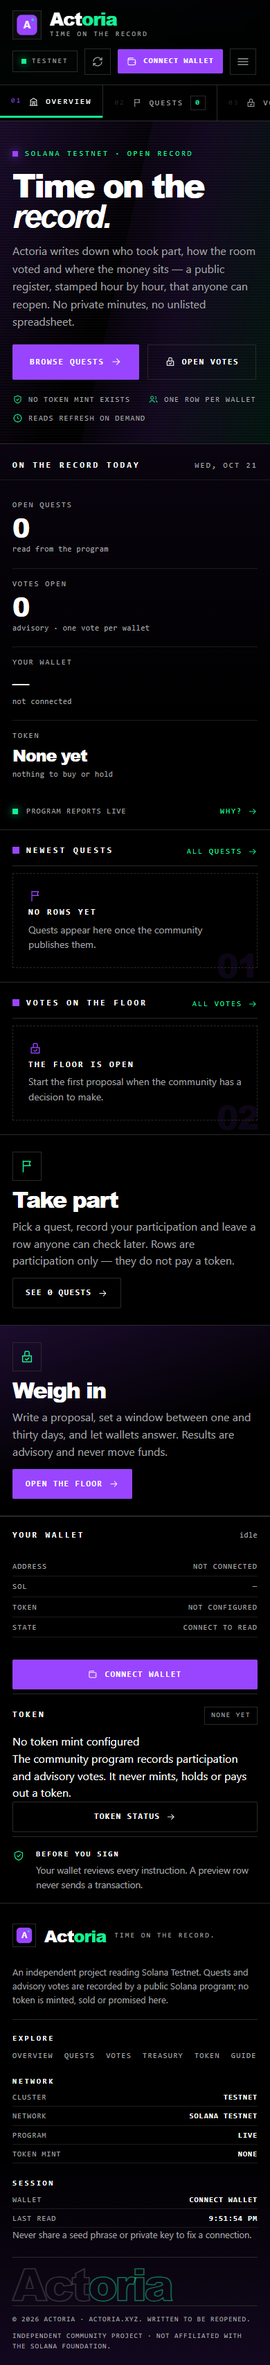
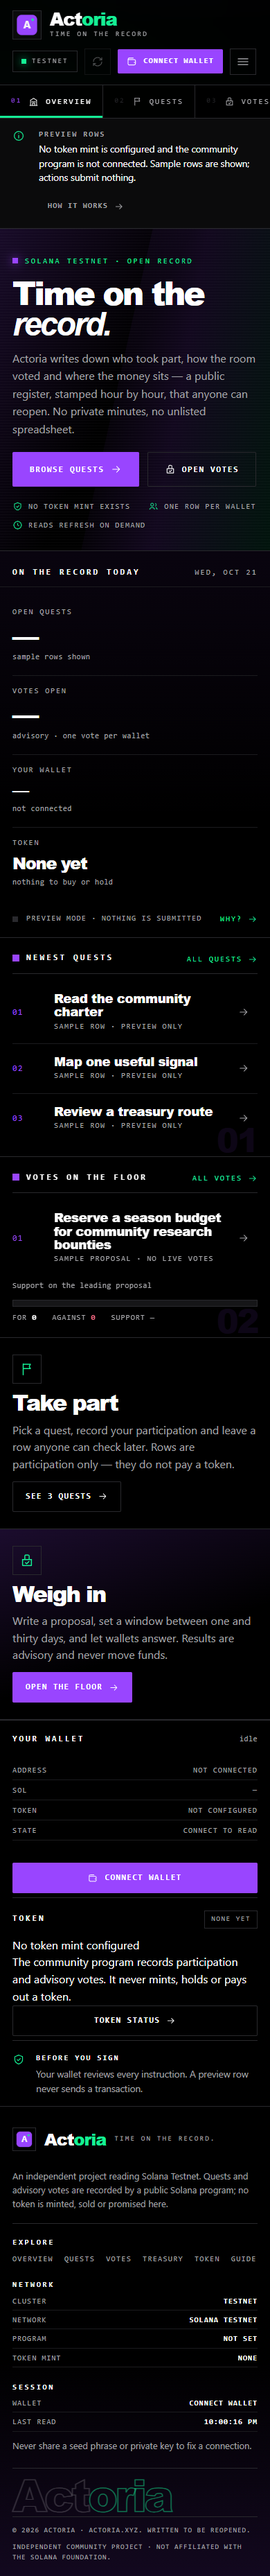
Sync website files

diff --git a/src/App.vue b/src/App.vue
@@ -1334,8 +1334,8 @@ async function vote(p, support) {
                       <h2 class="sp-band-title">Account statement</h2>
                       <span class="sp-slab-note">{{ ready ? "read at " + lastRead : "awaiting read" }}</span>
                     </header>
-                    <header class="sp-statement">
-        <div class="sp-statement-inner">
+                    <div class="sp-receipt">
+        <div class="sp-receipt-inner">
                       <div class="sp-statement-row">
                         <span class="sp-statement-key">On-chain token</span>
                         <span class="sp-statement-leader" aria-hidden="true"></span>
@@ -1376,7 +1376,7 @@ async function vote(p, support) {
                         <span class="sp-statement-val sp-statement-val--muted">{{ mintConfigured ? tokenDecimals : "—" }}</span>
                       </div>
                     
-        </div></header>
+        </div></div>
                   
         </div></article>
 

diff --git a/src/styles/spectrum.css b/src/styles/spectrum.css
@@ -1307,6 +1307,15 @@ textarea {
 
 /* ---------- statements (fact rows), meters, steps, checklist, faq ---------- */
 
+.sp-receipt {
+  display: block;
+}
+
+.sp-receipt-inner {
+  display: flex;
+  flex-direction: column;
+}
+
 .sp-statement-row {
   display: grid;
   grid-template-columns: minmax(0, 1fr) auto;
@@ -1379,6 +1388,10 @@ textarea {
 }
 
 .sp-meters {
+  max-width: var(--max-width);
+  margin: 0 auto;
+  padding: clamp(18px, 2.4vw, 30px) var(--page-pad);
+  border-bottom: 1px solid var(--line);
   display: grid;
   grid-template-columns: repeat(auto-fit, minmax(180px, 1fr));
   gap: 18px;
@@ -1989,6 +2002,10 @@ textarea {
   color: var(--muted);
   font-size: 13px;
   max-width: 64ch;
+}
+
+.sp-status-col .sp-status-note {
+  margin-top: 10px;
 }
 
 .sp-status-cols {

diff --git a/.reskin/VERIFICATION.md b/.reskin/VERIFICATION.md
@@ -1,6 +1,6 @@
 # Reskin verification — PASS
 
-Generated: 2026-10-21T13:51:58.042Z
+Generated: 2026-10-21T14:00:20.009Z
 
 - Project: **actoria-web**
 - URL: http://127.0.0.1:4317/
